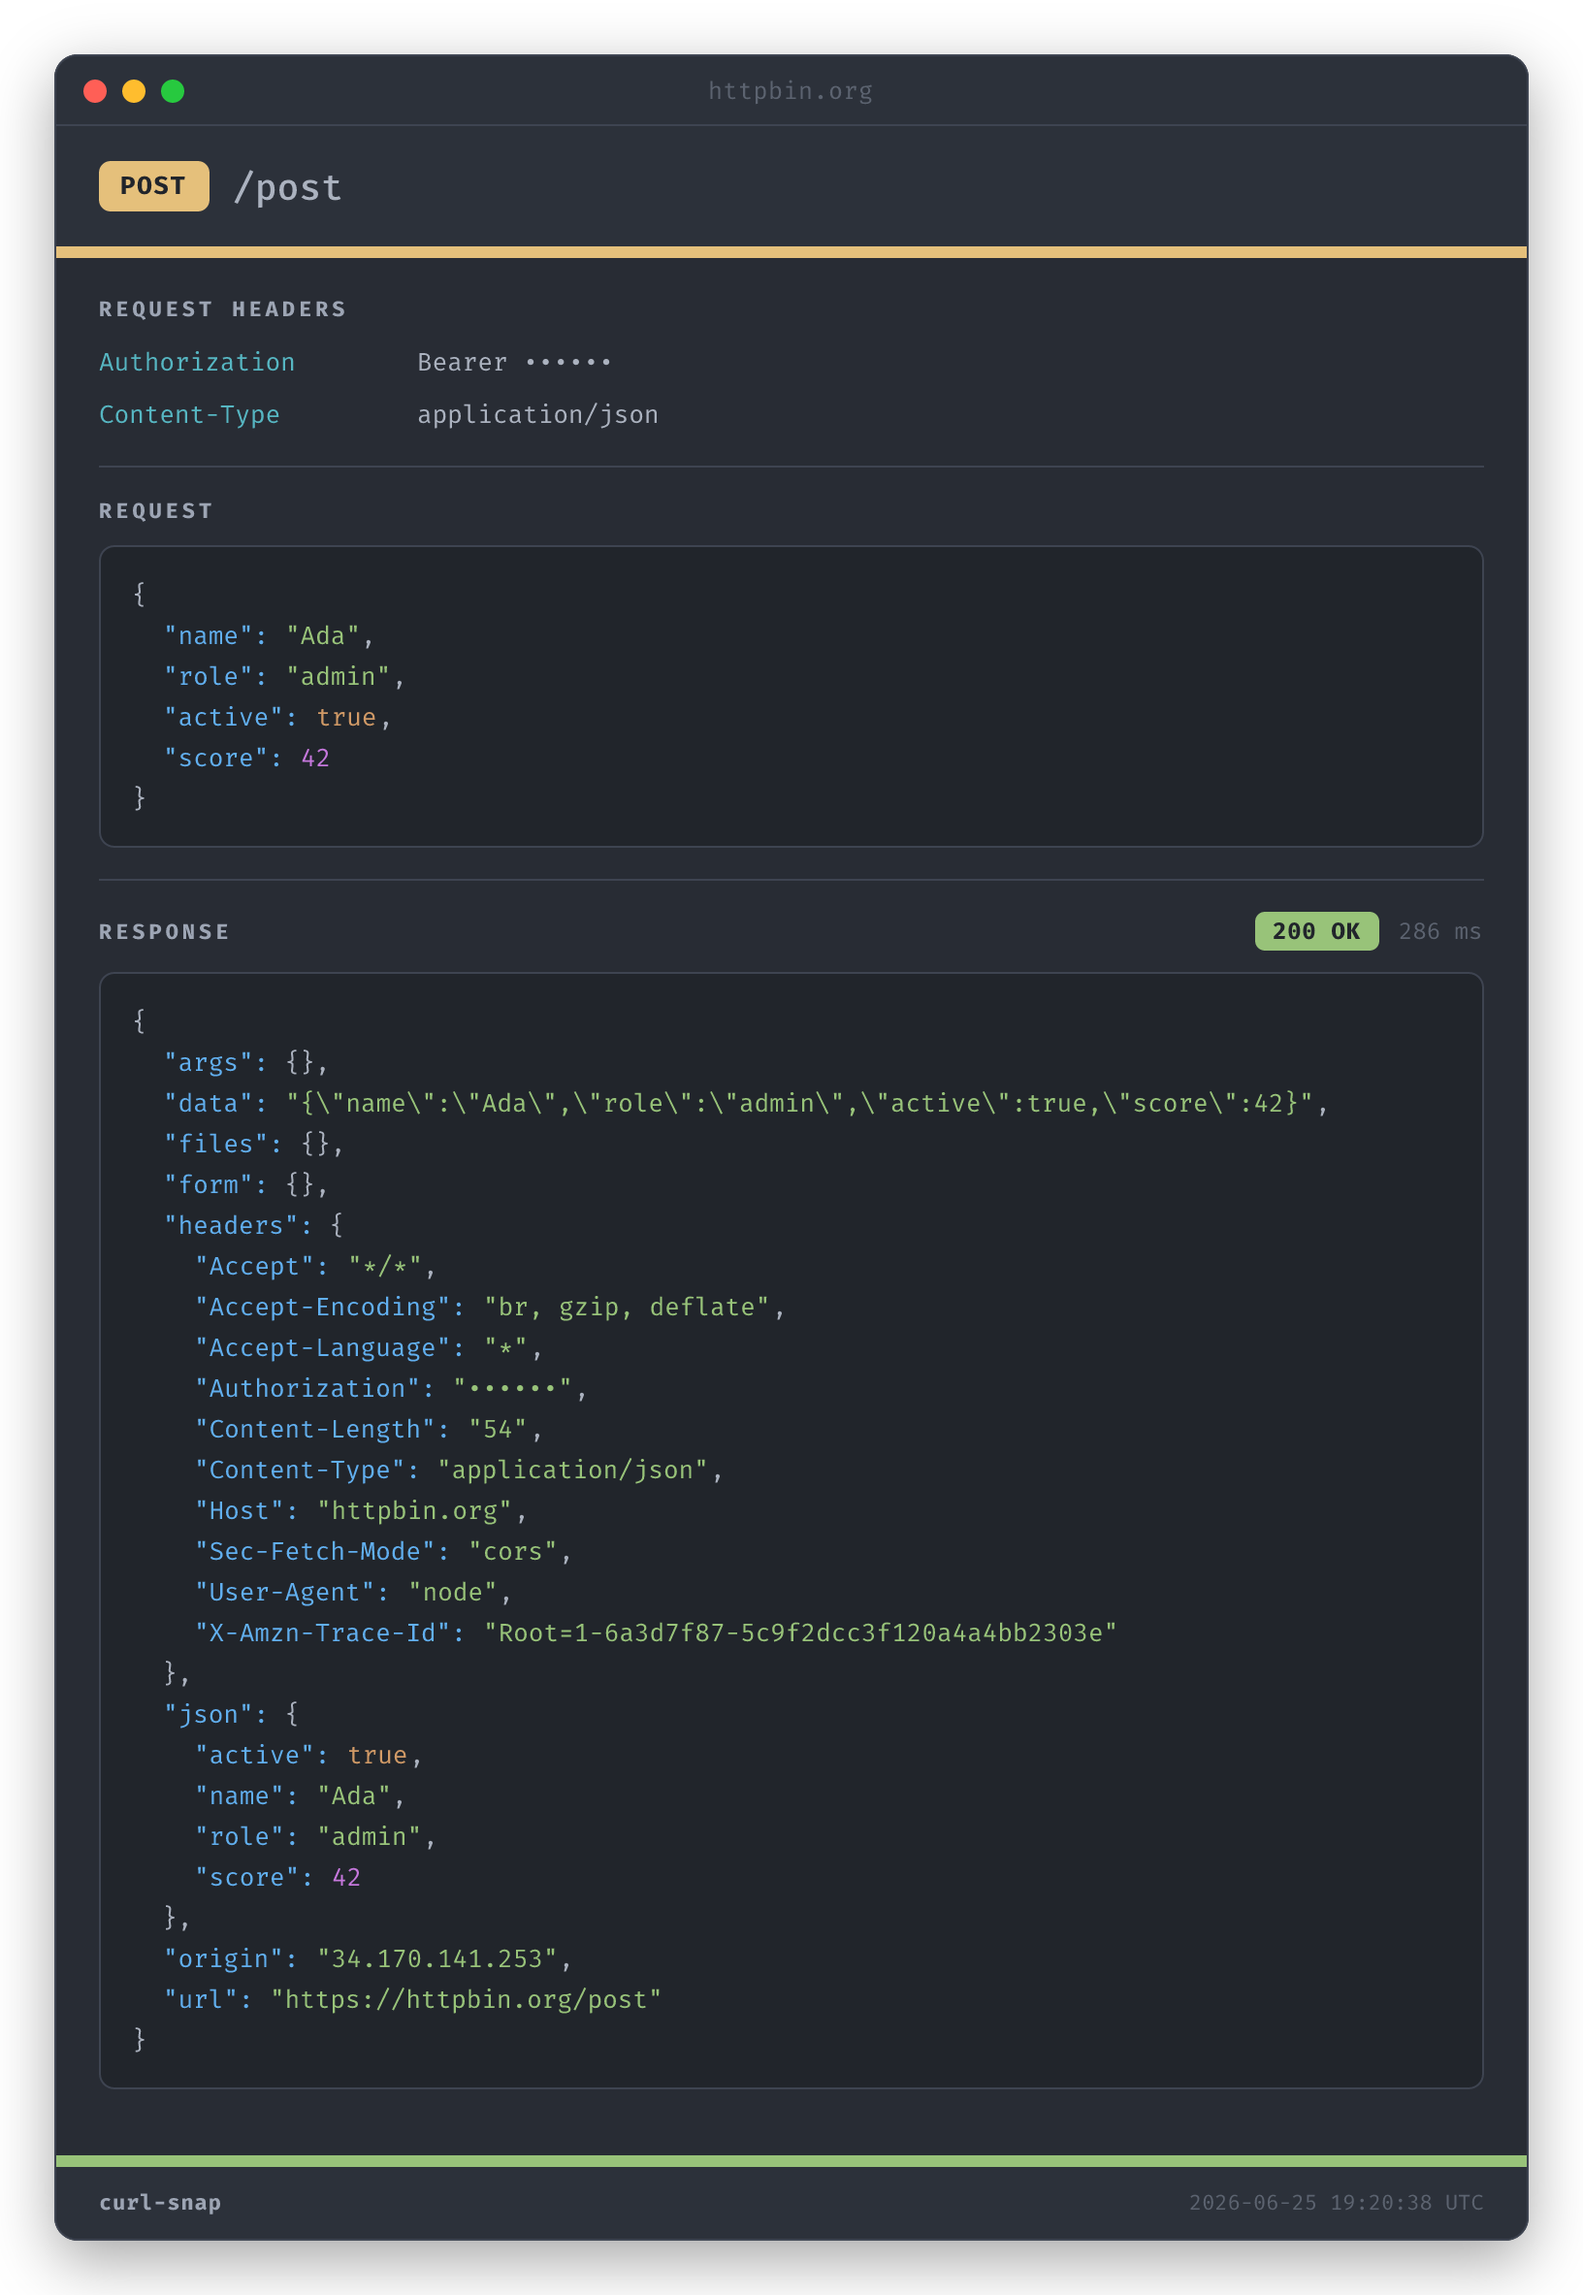
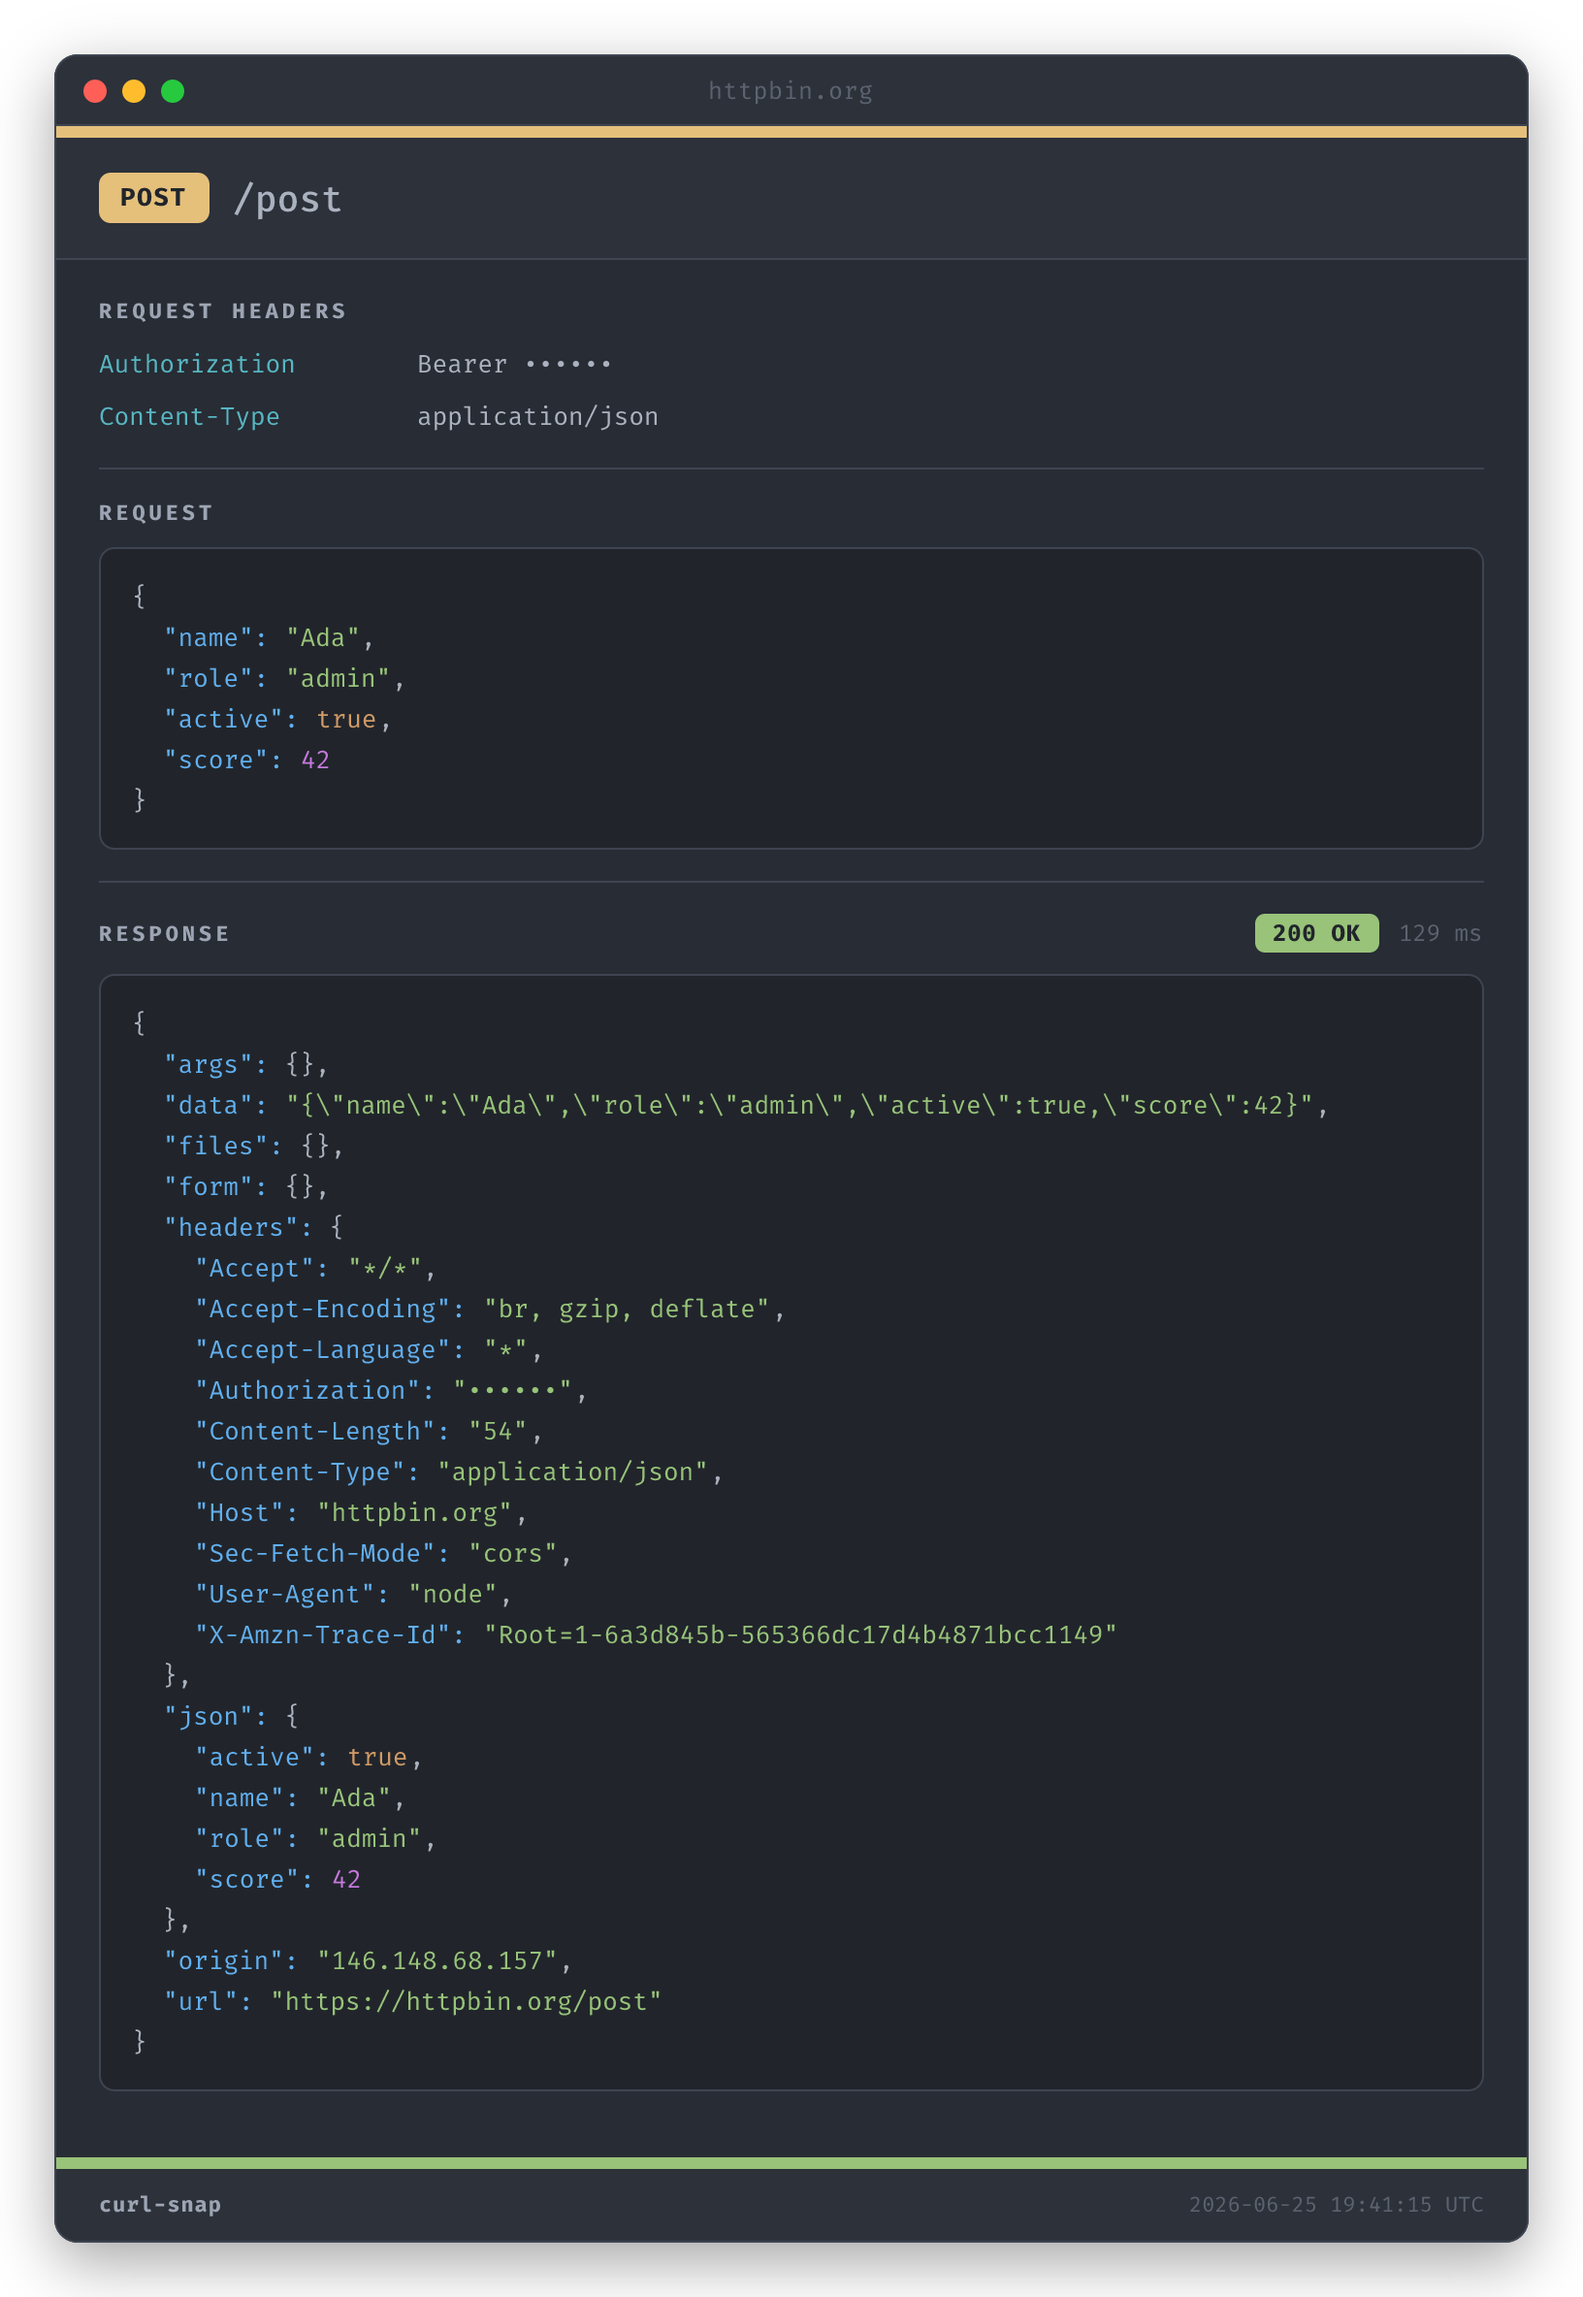
Release v2.3.0: title bar always present; --no-window full-bleed
- The title bar is always shown (windowed and not). It shows the domain by
  default, or --title (in which case the domain moves to the header row), so the
  domain is always visible up top.
- --window (default) draws the traffic-light dots and floats the card with
  padding + rounded corners + shadow. --no-window drops the dots, zeroes the
  padding, and squares the corners so the content fills the whole image.
- Moved the method color bar back above the header (status bar stays above the
  footer). Regenerate samples + theme gallery; update README/CHANGELOG.

Claude-Session: https://claude.ai/code/session_01VXh9tr1UUjUUoY5xpw5Vmh

diff --git a/src/template.js b/src/template.js
@@ -64,9 +64,18 @@ function plainCode(text) {
 const FONT = 'Fira Mono';
 const DEFAULT_PADDING = 28;
 
+// Windowed (default) draws the mac-style chrome (traffic-light dots) and floats
+// the card on a padded, rounded, shadowed canvas. --no-window drops the dots,
+// zeroes the padding, and squares the corners so the content fills the image.
+function isWindowed(model) {
+  return model.window !== false;
+}
+
 // Transparent margin around the card (where the drop shadow lives). Validated in
 // config.js; this is a last-resort guard so the tree never gets NaN/negative.
+// --no-window forces it to 0 (full-bleed).
 export function paddingOf(model) {
+  if (!isWindowed(model)) return 0;
   const p = Number(model.padding);
   return Number.isFinite(p) && p >= 0 ? p : DEFAULT_PADDING;
 }
@@ -103,8 +112,33 @@ function truncateTitle(s) {
 }
 
 // An optional window title bar (traffic-light dots + centered title). `title` is
-// pre-truncated. The card's borderRadius + overflow:hidden round the top corners.
-function windowBar(title, theme) {
+// pre-truncated. The title bar is always present; `dots` (windowed mode) adds the
+// traffic-light cluster and a matching right spacer so the title stays centered.
+function windowBar(title, theme, dots) {
+  const titleNode = h(
+    'div',
+    {
+      display: 'flex',
+      flexGrow: 1,
+      justifyContent: 'center',
+      fontSize: 12.5,
+      color: theme.textMuted,
+      letterSpacing: '0.02em',
+      whiteSpace: 'nowrap',
+      overflow: 'hidden',
+    },
+    title
+  );
+  const children = dots
+    ? [
+        h('div', { display: 'flex', alignItems: 'center', gap: 8, flexShrink: 0 }, [
+          trafficDot('#ff5f56'), trafficDot('#ffbd2e'), trafficDot('#27c93f'),
+        ]),
+        titleNode,
+        // Right spacer matching the dot cluster so the title stays centered.
+        h('div', { display: 'flex', width: 52, flexShrink: 0 }, []),
+      ]
+    : [titleNode];
   return h(
     'div',
     {
@@ -116,27 +150,7 @@ function windowBar(title, theme) {
       backgroundColor: theme.panel,
       borderBottom: `1px solid ${theme.border}`,
     },
-    [
-      h('div', { display: 'flex', alignItems: 'center', gap: 8, flexShrink: 0 }, [
-        trafficDot('#ff5f56'), trafficDot('#ffbd2e'), trafficDot('#27c93f'),
-      ]),
-      h(
-        'div',
-        {
-          display: 'flex',
-          flexGrow: 1,
-          justifyContent: 'center',
-          fontSize: 12.5,
-          color: theme.textMuted,
-          letterSpacing: '0.02em',
-          whiteSpace: 'nowrap',
-          overflow: 'hidden',
-        },
-        title
-      ),
-      // Right spacer matching the dot cluster so the title stays optically centered.
-      h('div', { display: 'flex', width: 52, flexShrink: 0 }, []),
-    ]
+    children
   );
 }
 
@@ -291,14 +305,13 @@ export function buildTree(model) {
   // cli.js always supplies a resolved theme; fall back so direct callers/tests
   // (and any future entry points) still render the default.
   const theme = model.theme || resolveTheme({}).theme;
+  const windowed = isWindowed(model);
   const padding = paddingOf(model);
   const bgStyle = rootBackgroundStyle(model.background, theme);
-  const windowTitle = model.window
-    ? truncateTitle(model.title != null ? model.title : domain)
-    : null;
-  // When the window bar is showing the domain (window on, no explicit title),
-  // drop the domain row under the method so it isn't duplicated.
-  const showDomain = !(model.window && model.title == null);
+  // The title bar is always present (both modes); it shows the domain by default,
+  // or an explicit --title. When a title is given the domain moves to the header.
+  const windowTitle = truncateTitle(model.title != null ? model.title : domain);
+  const showDomain = model.title != null;
 
   const tone = statusTone(response.ok ? response.status : undefined);
   const mColor = methodColor(method, theme);
@@ -392,13 +405,15 @@ export function buildTree(model) {
       width,
       backgroundColor: theme.background,
       border: `1px solid ${theme.border}`,
-      borderRadius: 12,
+      borderRadius: windowed ? 12 : 0,
       overflow: 'hidden',
-      boxShadow: '0 10px 30px rgba(0, 0, 0, 0.35)',
+      ...(windowed ? { boxShadow: '0 10px 30px rgba(0, 0, 0, 0.35)' } : {}),
     },
     [
-      // Optional window chrome (title bar).
-      ...(windowTitle !== null ? [windowBar(windowTitle, theme)] : []),
+      // Title bar (always present); dots only in windowed mode.
+      windowBar(windowTitle, theme, windowed),
+      // Top strip (method color) — above the header.
+      h('div', { display: 'flex', height: 6, width: '100%', backgroundColor: mColor }, []),
       // Header.
       h(
         'div',
@@ -407,6 +422,7 @@ export function buildTree(model) {
           flexDirection: 'column',
           padding: '18px 22px',
           backgroundColor: theme.panel,
+          borderBottom: `1px solid ${theme.border}`,
         },
         [
           h('div', { display: 'flex', alignItems: 'center', gap: 12 }, [
@@ -448,13 +464,10 @@ export function buildTree(model) {
             : []),
         ]
       ),
-      // Top strip (method color) — under the header, bracketing the body with
-      // the status strip below it.
-      h('div', { display: 'flex', height: 6, width: '100%', backgroundColor: mColor }, []),
       // Body (sections).
       h('div', { display: 'flex', flexDirection: 'column', padding: '4px 22px 18px' }, sectionNodes),
-      // Bottom strip (status tone color) — sits above the footer so both color
-      // bars are framed inside the window, with the footer as the bottom chrome.
+      // Bottom strip (status tone color) — above the footer, so the footer is the
+      // bottom chrome edge and both color bars sit inside the card.
       h('div', { display: 'flex', height: 6, width: '100%', backgroundColor: rColor }, []),
       // Footer.
       h(

diff --git a/CHANGELOG.md b/CHANGELOG.md
@@ -6,6 +6,18 @@ to [Semantic Versioning](https://semver.org/spec/v2.0.0.html).
 
 ## [Unreleased]
 
+## [2.3.0] - 2026-06-25
+
+### Changed
+- The title bar is now **always present** (both windowed and not). It shows the
+  request domain by default, or your `--title` — in which case the domain moves
+  down to the header, so the domain is always visible up top.
+- `--no-window` now produces a **full-bleed** card: it drops the traffic-light
+  dots, zeroes the padding, and squares the corners so the content fills the
+  whole image (rather than just hiding the title bar).
+- Moved the method color bar back **above the header** (the status bar stays
+  above the footer).
+
 ## [2.2.0] - 2026-06-25
 
 ### Changed
@@ -85,7 +97,8 @@ Initial release.
 - Config files (global + project + `--config`) with `--init-config`,
   `--print-config`, and `--no-config`.
 
-[Unreleased]: https://github.com/imatson9119/curl-snap/compare/v2.2.0...HEAD
+[Unreleased]: https://github.com/imatson9119/curl-snap/compare/v2.3.0...HEAD
+[2.3.0]: https://github.com/imatson9119/curl-snap/releases/tag/v2.3.0
 [2.2.0]: https://github.com/imatson9119/curl-snap/releases/tag/v2.2.0
 [2.1.0]: https://github.com/imatson9119/curl-snap/releases/tag/v2.1.0
 [2.0.0]: https://github.com/imatson9119/curl-snap/releases/tag/v2.0.0

diff --git a/README.md b/README.md
@@ -171,8 +171,9 @@ curl-snap '<curl>' --background "linear-gradient(135deg,#1e3a8a,#7c3aed)"
   (`linear-gradient(...)`), or `auto` (a subtle backdrop derived from the active
   theme). Default is `none` (transparent).
 - `--padding <px>` sets the margin around the card (default 28).
-- The window title bar is on by default; `--no-window` removes it, and `--title`
-  overrides the default title (the request domain).
+- The title bar is on by default and shows the domain (or `--title`, which moves
+  the domain down to the header). `--no-window` makes a flat, full-bleed card —
+  no window dots, no padding, edge-to-edge.
 
 ## SVG output
 
